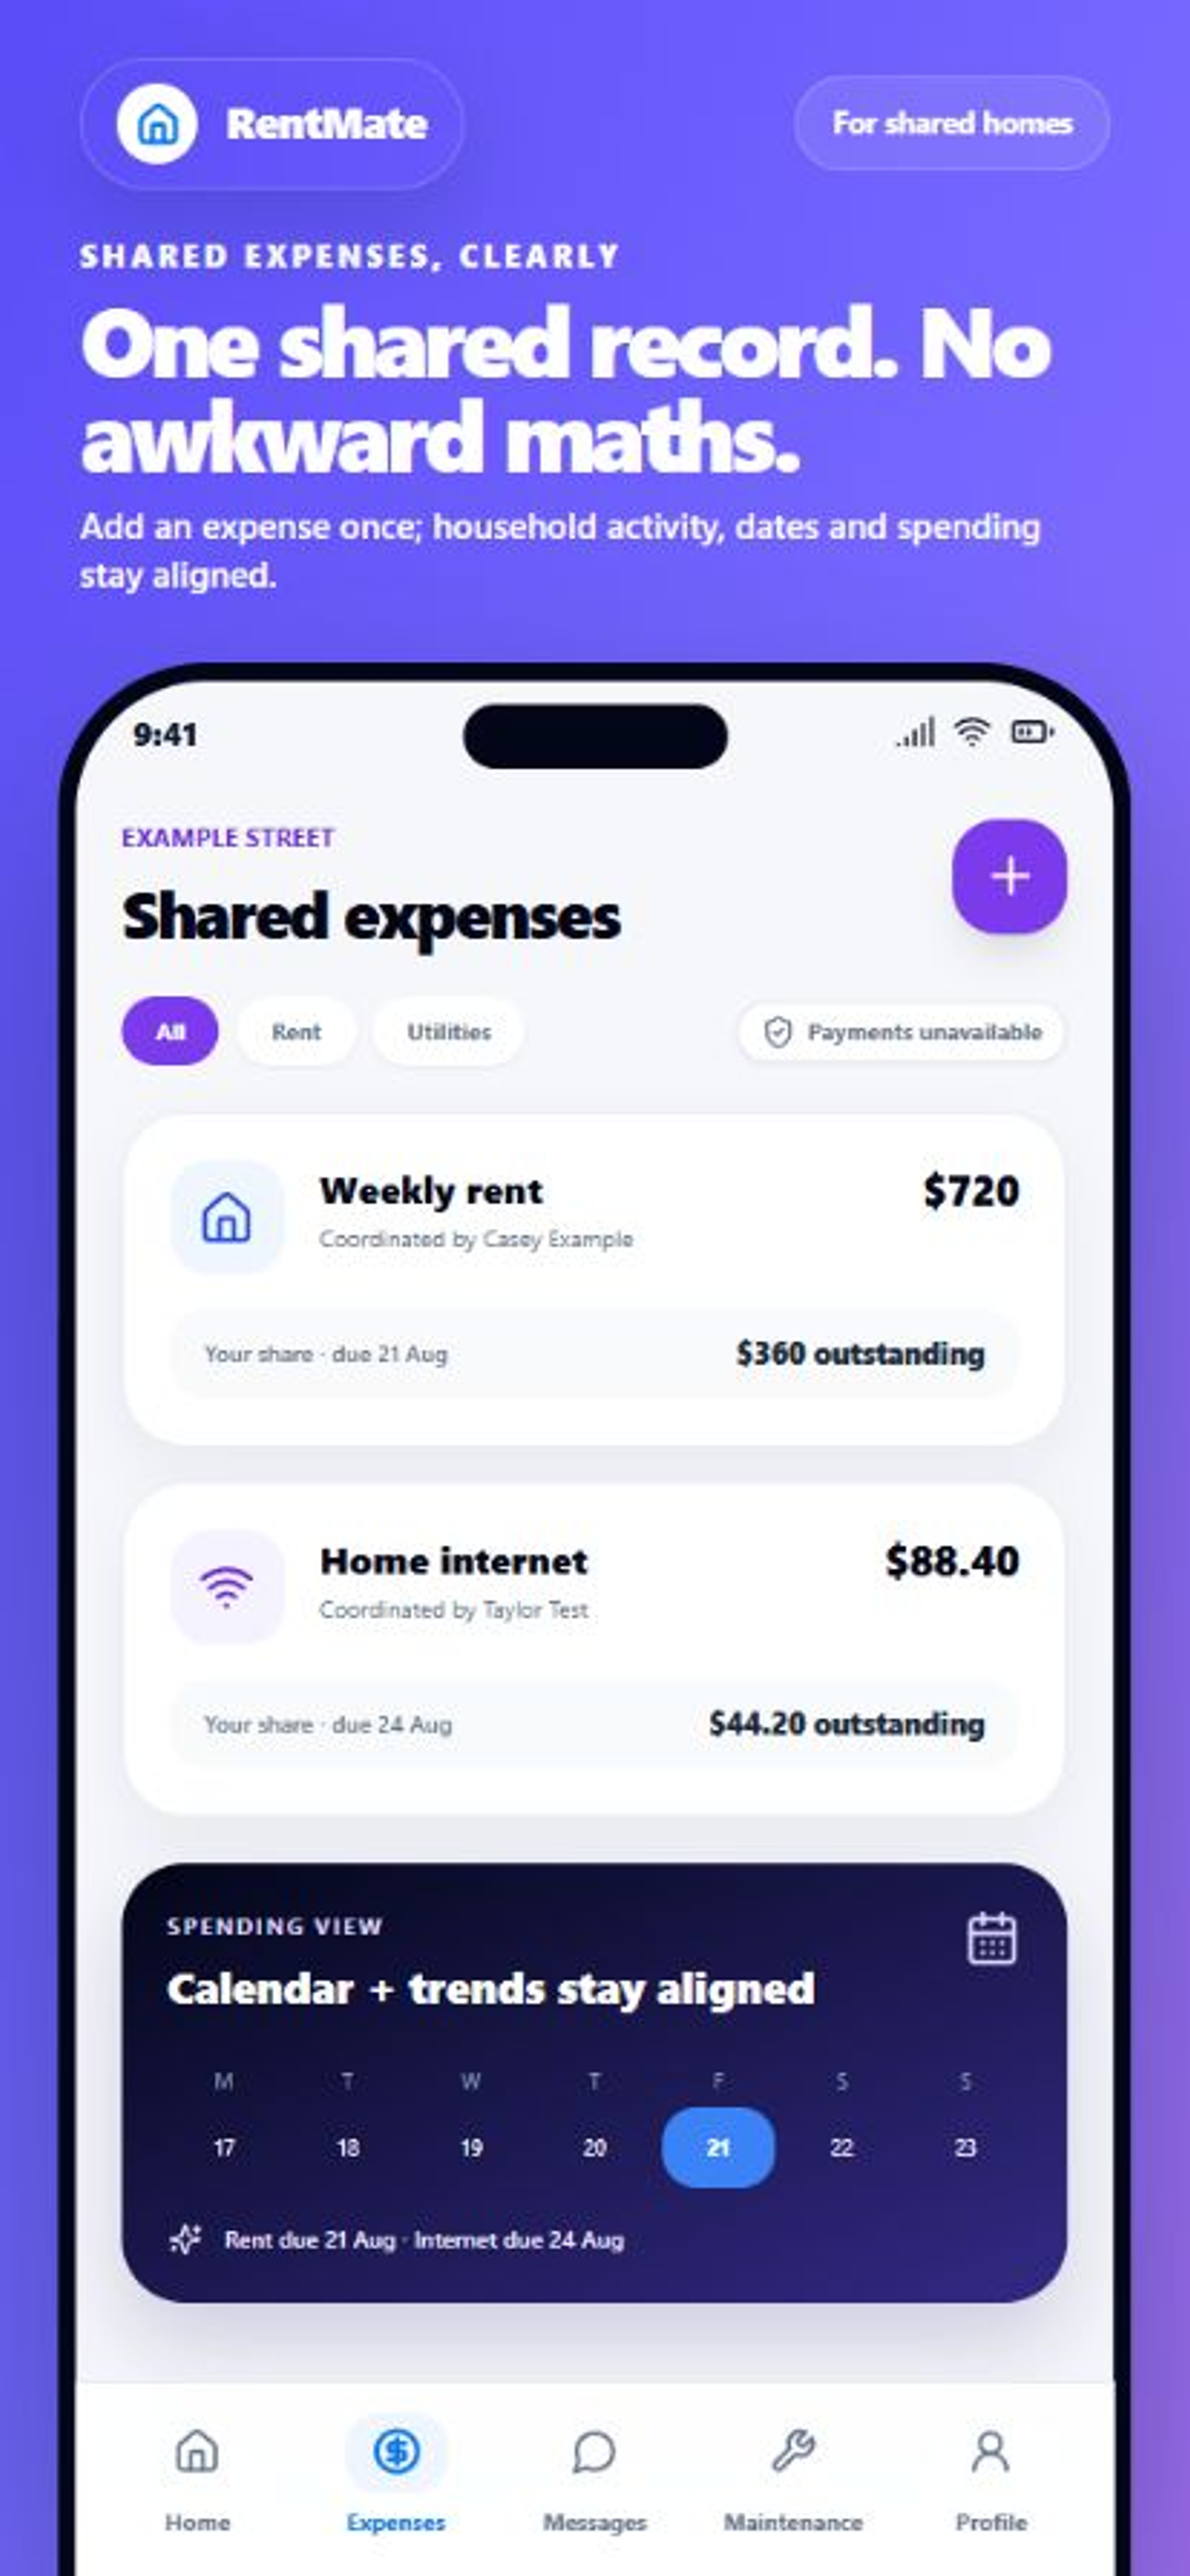
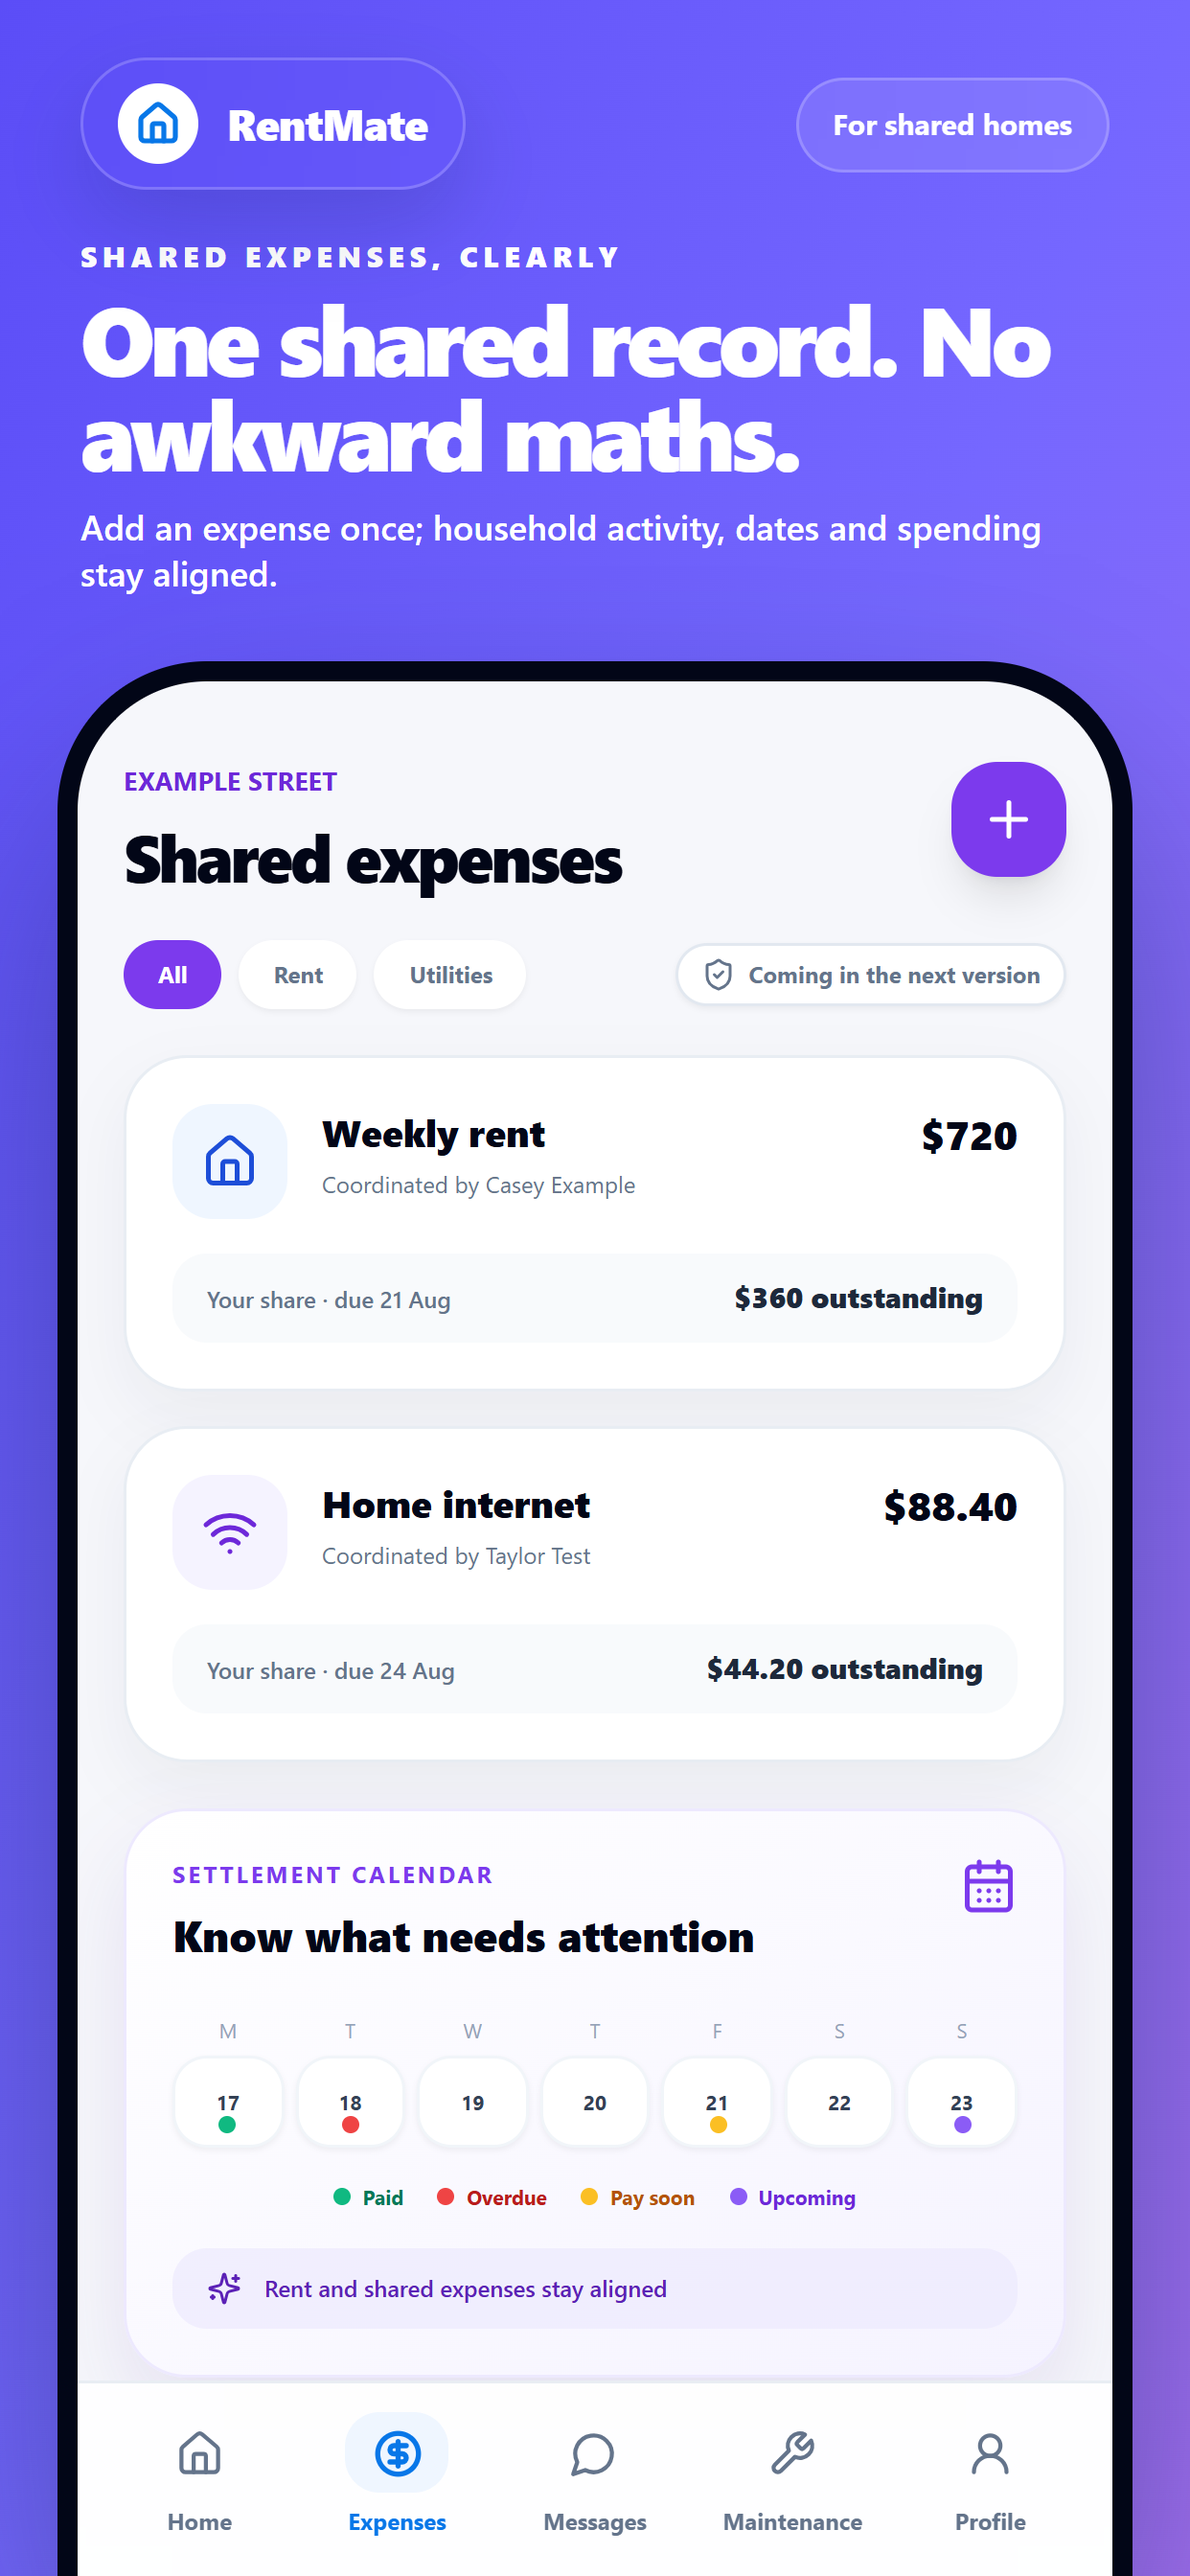
Remove simulated status bars from App Store screenshots

diff --git a/README.md b/README.md
@@ -1,2 +1,4 @@
 # rentmate-app-store-previews
 Public RentMate App Store preview screenshots using synthetic demonstration data only.
+
+The current six-image set uses a 1242 x 2688 iPhone canvas and contains no simulated status bar or Dynamic Island artwork.
